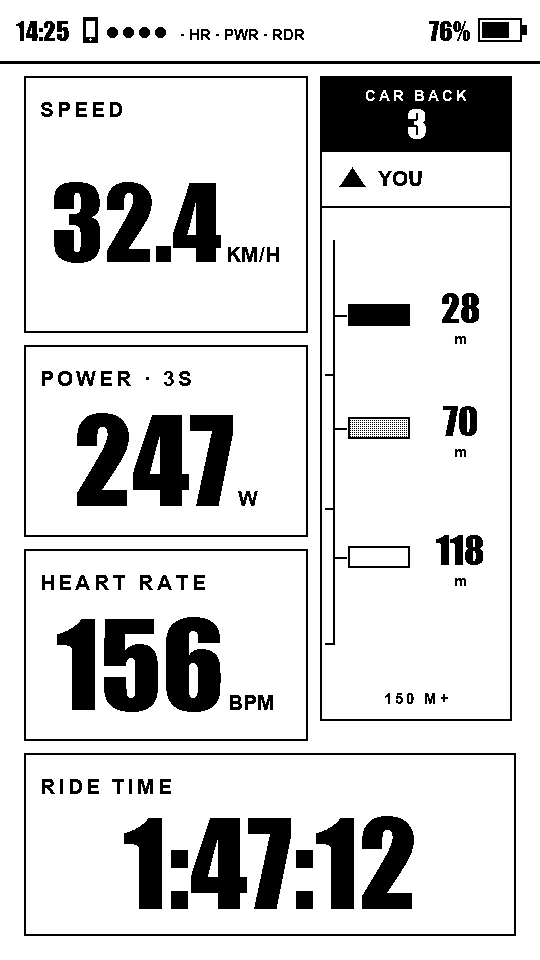
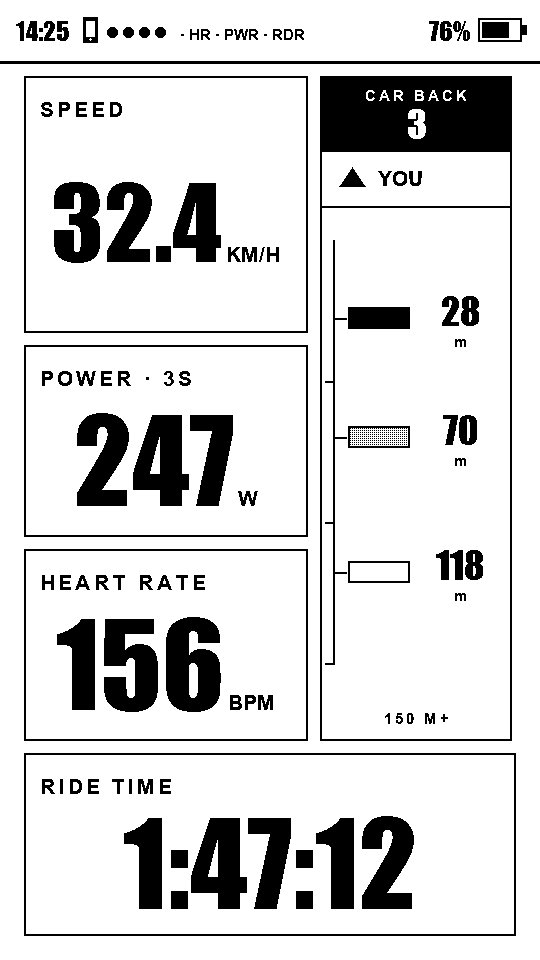
Align configurable radar tiles with dashboard grid rows

diff --git a/companion-ios/Sources/DashboardEditorView.swift b/companion-ios/Sources/DashboardEditorView.swift
@@ -381,7 +381,7 @@ private struct DashItemRow: View {
         }
         .padding(.vertical, 4)
         if item.isVertical {
-            Text("Tile height").font(.footnote).foregroundStyle(Palette.muted)
+            Text("Tile height · fills whole grid rows").font(.footnote).foregroundStyle(Palette.muted)
             Picker("Tile height", selection: $item.heightPercent) {
                 Text("Half").tag(50)
                 Text("Three-quarter").tag(75)
@@ -559,13 +559,19 @@ struct DashPreview: View {
         let total = max(weights.reduce(0, +), 1)
         let gutters = CGFloat(rows.count - 1) * gutter
         let availH = (panelH - statusH - margin) - gutters
-        let railH = CGFloat(860 * (layout.verticalItem?.heightPercent ?? 100) / 100)
+        var gridY = statusH + margin - step
+        let rowHeights = rows.indices.map { r in
+            let height = r == rows.count - 1 ? panelH - margin - gridY
+                : (availH * CGFloat(weights[r]) / CGFloat(total)).rounded(.down)
+            gridY += height + gutter
+            return Int(height)
+        }
+        let railH = CGFloat(layout.verticalHeight(rowHeights: rowHeights, gutter: Int(gutter)))
 
         var out: [Placed] = []
         var y = statusH + margin - step
         for (r, row) in rows.enumerated() {
-            let rowH = r == rows.count - 1 ? panelH - margin - y
-                                           : (availH * CGFloat(weights[r]) / CGFloat(total)).rounded(.down)
+            let rowH = CGFloat(rowHeights[r])
             let mainW = layout.verticalItem != nil && y < 76 + railH + gutter ? 284 : contentW
             let halfW = ((mainW - gutter) / 2).rounded(.down)
             for (c, item) in row.enumerated() {

diff --git a/tools/radar_test/layout_test.swift b/tools/radar_test/layout_test.swift
@@ -29,6 +29,20 @@ import Foundation
         precondition(DashLayout(text: "radar medium vertical height=12").verticalItem?.heightPercent == 100)
         let normalized = DashLayout(text: "speed small height=50\nhr medium vertical height=75\npower medium vertical height=50")
         precondition(normalized.items.map(\.heightPercent) == [100, 75, 100])
+        let half = DashLayout(text: "radar medium vertical height=50")
+        let threeQuarter = DashLayout(text: "radar medium vertical height=75")
+        let full = DashLayout(text: "radar medium vertical")
+        let grid = [257, 192, 192, 183]
+        let navGrid = [214, 161, 161, 150]
+        precondition(half.verticalHeight(rowHeights: grid, gutter: 12) == 461)
+        precondition(threeQuarter.verticalHeight(rowHeights: grid, gutter: 12) == 665)
+        precondition(full.verticalHeight(rowHeights: grid, gutter: 12) == 860)
+        precondition(half.verticalHeight(rowHeights: navGrid, gutter: 12) == 387)
+        precondition(threeQuarter.verticalHeight(rowHeights: navGrid, gutter: 12) == 560)
+        precondition(full.verticalHeight(rowHeights: navGrid, gutter: 12) == 722)
+        precondition(half.verticalHeight(rowHeights: [424, 424], gutter: 12) == 424)
+        precondition(half.verticalHeight(rowHeights: [860], gutter: 12) == 860)
+        precondition(half.verticalHeight(rowHeights: [], gutter: 12) == 0)
         print("Swift radar layout tests passed")
     }
 }

diff --git a/companion-android/app/src/test/java/com/raemond/opentrailpaper/RadarLayoutTest.kt b/companion-android/app/src/test/java/com/raemond/opentrailpaper/RadarLayoutTest.kt
@@ -5,6 +5,23 @@ import org.junit.Assert.*
 import org.junit.Test
 
 class RadarLayoutTest {
+    @Test fun `vertical tiles fill whole weighted rows including navigation and gutter boundaries`() {
+        val half = DashLayout.parse("radar medium vertical height=50")
+        val threeQuarter = DashLayout.parse("radar medium vertical height=75")
+        val full = DashLayout.parse("radar medium vertical")
+        val grid = listOf(257, 192, 192, 183)
+        val navGrid = listOf(214, 161, 161, 150)
+        assertEquals(461, half.verticalHeight(grid, 12))
+        assertEquals(665, threeQuarter.verticalHeight(grid, 12))
+        assertEquals(860, full.verticalHeight(grid, 12))
+        assertEquals(387, half.verticalHeight(navGrid, 12))
+        assertEquals(560, threeQuarter.verticalHeight(navGrid, 12))
+        assertEquals(722, full.verticalHeight(navGrid, 12))
+        assertEquals(424, half.verticalHeight(listOf(424, 424), 12))
+        assertEquals(860, half.verticalHeight(listOf(860), 12))
+        assertEquals(0, half.verticalHeight(emptyList(), 12))
+    }
+
     @Test fun `tile heights survive sync and legacy layouts remain full height`() {
         for (height in listOf(50, 75, 100)) {
             val text = "speed large\nradar medium half vertical height=$height\n"

diff --git a/companion-android/app/src/main/java/com/raemond/opentrailpaper/ui/DashPreview.kt b/companion-android/app/src/main/java/com/raemond/opentrailpaper/ui/DashPreview.kt
@@ -311,16 +311,19 @@ private fun place(layout: DashLayout): List<Placed> {
     val total = maxOf(weights.sum(), 1)
     val gutters = (rows.size - 1) * GUTTER
     val availH = (PANEL_H - STATUS_H - MARGIN) - gutters
-    val railH = (860 * (layout.verticalItem?.heightPercent ?: 100) / 100).toFloat()
+    var gridY = STATUS_H + MARGIN - STEP
+    val rowHeights = rows.indices.map { r ->
+        val height = if (r == rows.lastIndex) PANEL_H - MARGIN - gridY
+                     else (availH * weights[r] / total).toInt().toFloat()
+        gridY += height + GUTTER
+        height.toInt()
+    }
+    val railH = layout.verticalHeight(rowHeights, GUTTER.toInt()).toFloat()
 
     val out = ArrayList<Placed>()
     var y = STATUS_H + MARGIN - STEP
     for ((r, row) in rows.withIndex()) {
-        val rowH = if (r == rows.size - 1) {
-            PANEL_H - MARGIN - y
-        } else {
-            (availH * weights[r] / total).toInt().toFloat()
-        }
+        val rowH = rowHeights[r].toFloat()
         val mainW = if (layout.verticalItem != null && y < 76 + railH + GUTTER) 284f else CONTENT_W
         val halfW = ((mainW - GUTTER) / 2).toInt().toFloat()
         for ((c, item) in row.withIndex()) {

diff --git a/companion-ios/Sources/DashLayout.swift b/companion-ios/Sources/DashLayout.swift
@@ -155,6 +155,22 @@ struct DashLayout: Equatable {
     }
     var verticalItem: DashItem? { normalizedItems.first { $0.vertical } }
 
+    /// Match the device: fill every grid row touched by the requested height.
+    func verticalHeight(rowHeights: [Int], gutter: Int) -> Int {
+        guard !rowHeights.isEmpty else { return 0 }
+        let total = rowHeights.reduce(0, +) + (rowHeights.count - 1) * gutter
+        let percent = verticalItem?.heightPercent ?? 100
+        if percent >= 100 { return total }
+        let wanted = total * percent / 100
+        var bottom = 0
+        for (index, height) in rowHeights.enumerated() {
+            bottom += height
+            if bottom + gutter >= wanted || index == rowHeights.count - 1 { return bottom }
+            bottom += gutter
+        }
+        return total
+    }
+
     /// The device's built-in default, for the "reset" action.
     static var deviceDefault: DashLayout {
         DashLayout(items: [

diff --git a/companion-android/app/src/main/java/com/raemond/opentrailpaper/data/DashLayout.kt b/companion-android/app/src/main/java/com/raemond/opentrailpaper/data/DashLayout.kt
@@ -100,6 +100,22 @@ data class DashLayout(val items: List<DashItem>) {
         }
     val verticalItem: DashItem? get() = normalizedItems.firstOrNull { it.vertical }
 
+    /** Match the device: fill every grid row touched by the requested height. */
+    fun verticalHeight(rowHeights: List<Int>, gutter: Int): Int {
+        if (rowHeights.isEmpty()) return 0
+        val total = rowHeights.sum() + (rowHeights.size - 1) * gutter
+        val percent = verticalItem?.heightPercent ?: 100
+        if (percent >= 100) return total
+        val wanted = total * percent / 100
+        var bottom = 0
+        for ((index, height) in rowHeights.withIndex()) {
+            bottom += height
+            if (bottom + gutter >= wanted || index == rowHeights.lastIndex) return bottom
+            bottom += gutter
+        }
+        return total
+    }
+
 
     /**
      * Serialize back to the config file's text, byte-compatible with

diff --git a/companion-android/app/src/main/java/com/raemond/opentrailpaper/ui/DashboardEditorSheet.kt b/companion-android/app/src/main/java/com/raemond/opentrailpaper/ui/DashboardEditorSheet.kt
@@ -740,7 +740,7 @@ private fun DashItemRow(
             SmallChip("Half", item.half) { onChange(item.copy(half = !item.half)) }
         }
         if (item.isVertical) {
-            Text("Tile height", style = TypeScale.body)
+            Text("Tile height · fills whole grid rows", style = TypeScale.body)
             Row(horizontalArrangement = Arrangement.spacedBy(6.dp)) {
                 listOf(50 to "Half", 75 to "Three-quarter", 100 to "Full").forEach { (height, label) ->
                     SmallChip(label, item.heightPercent == height) { onChange(item.copy(heightPercent = height)) }

diff --git a/src/ui_render.cpp b/src/ui_render.cpp
@@ -916,14 +916,6 @@ void ui_render_dashboard(const RideState& s, bool navActive,
         if (s.showOffline || dashFieldAvailable(src.items[i].field, s))
             L.items[L.count++] = src.items[i];
     }
-    const int railHeight = (H - top - 2 * ui::MARGIN + ui::STEP) *
-                           (vertical >= 0 ? src.items[vertical].heightPercent : 100) / 100;
-    const EpdRect rail = {DASH_VERTICAL_X, top + ui::MARGIN - ui::STEP,
-                          DASH_VERTICAL_W, railHeight};
-    if (vertical >= 0) {
-        const DashItem& item = src.items[vertical];
-        if (item.field == DF_RADAR) ui_render_radar(s, rail, fb);
-    }
 
     // Everything configured is unavailable — a fresh device with a power-only
     // layout and no sensors yet. Speed always has a source, so the panel shows
@@ -980,10 +972,24 @@ void ui_render_dashboard(const RideState& s, bool navActive,
 
     const int gutters = (rowCount - 1) * ui::GUTTER;
     const int availH = (H - top - ui::MARGIN) - gutters;
-    int y = top + ui::MARGIN - ui::STEP;
+    const int gridTop = top + ui::MARGIN - ui::STEP;
+    int rowHeights[DASH_MAX_ITEMS];
+    int gridY = gridTop;
     for (int r = 0; r < rowCount; ++r) {
-        int rowH = (r == rowCount - 1) ? (H - ui::MARGIN - y)
-                                       : availH * rows[r].weight / totalWeight;
+        rowHeights[r] = r == rowCount - 1 ? H - ui::MARGIN - gridY
+                                          : availH * rows[r].weight / totalWeight;
+        gridY += rowHeights[r] + ui::GUTTER;
+    }
+    // The rail spans whole rows, including their gutters. Its lower border is
+    // the same border as the last adjacent numeric row, even with navigation.
+    const EpdRect rail = {DASH_VERTICAL_X, gridTop, DASH_VERTICAL_W,
+        dashVerticalHeight(rowHeights, rowCount, ui::GUTTER,
+                           vertical >= 0 ? src.items[vertical].heightPercent : 100)};
+    if (vertical >= 0 && src.items[vertical].field == DF_RADAR)
+        ui_render_radar(s, rail, fb);
+    int y = gridTop;
+    for (int r = 0; r < rowCount; ++r) {
+        const int rowH = rowHeights[r];
         const DashRow& row = rows[r];
         const int contentW = vertical >= 0 && y < rail.y + rail.height + ui::GUTTER
                              ? DASH_VERTICAL_X - ui::GUTTER - ui::CONTENT_X : ui::CONTENT_W;

diff --git a/tools/radar_test/main.cpp b/tools/radar_test/main.cpp
@@ -81,5 +81,20 @@ int main() {
     assert(dashParse("radar medium\n", bad) && bad.items[0].heightPercent == 100);
     assert(dashParse("speed small height=50\nhr medium vertical height=75\npower medium vertical height=50\n", bad));
     assert(bad.items[0].heightPercent == 100 && bad.items[1].heightPercent == 75 && bad.items[2].heightPercent == 100);
+    // Actual weighted grid used by the preview; include navigation and a
+    // requested edge in the gutter between two equal rows.
+    const int grid[] = {257, 192, 192, 183};
+    const int navGrid[] = {214, 161, 161, 150};
+    const int equalGrid[] = {424, 424};
+    const int single[] = {860};
+    assert(dashVerticalHeight(grid, 4, 12, 50) == 461);
+    assert(dashVerticalHeight(grid, 4, 12, 75) == 665);
+    assert(dashVerticalHeight(grid, 4, 12, 100) == 860);
+    assert(dashVerticalHeight(navGrid, 4, 12, 50) == 387);
+    assert(dashVerticalHeight(navGrid, 4, 12, 75) == 560);
+    assert(dashVerticalHeight(navGrid, 4, 12, 100) == 722);
+    assert(dashVerticalHeight(equalGrid, 2, 12, 50) == 424);
+    assert(dashVerticalHeight(single, 1, 12, 50) == 860);
+    assert(dashVerticalHeight(nullptr, 0, 12, 50) == 0);
     puts("Radar protocol and layout tests passed");
 }

diff --git a/src/dash_layout.cpp b/src/dash_layout.cpp
@@ -88,6 +88,21 @@ const DashPages& dashDefaultPages() {
     return d;
 }
 
+int dashVerticalHeight(const int* rowHeights, int rowCount, int gutter, uint8_t heightPercent) {
+    if (rowCount <= 0) return 0;
+    int total = (rowCount - 1) * gutter;
+    for (int i = 0; i < rowCount; ++i) total += rowHeights[i];
+    if (heightPercent >= 100) return total;
+    const int wanted = total * heightPercent / 100;
+    int bottom = 0;
+    for (int i = 0; i < rowCount; ++i) {
+        bottom += rowHeights[i];
+        if (bottom + gutter >= wanted || i == rowCount - 1) return bottom;
+        bottom += gutter;
+    }
+    return total;
+}
+
 void dashNormalizeLayout(DashLayout& layout) {
     bool hasVertical = false;
     int n = 0;

diff --git a/src/dash_layout.h b/src/dash_layout.h
@@ -75,6 +75,8 @@ struct DashLayout {
 // from the numeric cells in the display driver's dirty regions.
 constexpr int DASH_VERTICAL_X = 320;
 constexpr int DASH_VERTICAL_W = 192;
+// Round a requested vertical height up to the bottom of a complete grid row.
+int dashVerticalHeight(const int* rowHeights, int rowCount, int gutter, uint8_t heightPercent);
 // Radar is always vertical. First vertical wins; extra numeric vertical items
 // become full-width rows, and duplicate radar tiles are discarded.
 void dashNormalizeLayout(DashLayout& layout);

diff --git a/docs/varia-radar.md b/docs/varia-radar.md
@@ -8,8 +8,10 @@ pairing. The phone is not needed after pairing.
 
 In the phone's dashboard editor, add **Radar** to a data page and save it to the
 head unit. Choose **Tile height**: **Half**, **Three-quarter**, or **Full** (the default).
-The radar sits at the top right and uses that fraction of the available dashboard
-height, including when navigation reduces the available area. Fields beside it
+The radar sits at the top right and rounds the requested fraction up to a whole
+number of grid rows. Its bottom border aligns with the last adjacent tile, with
+only the normal gutter before the next row. This also applies during navigation;
+with just one numeric row, all height choices fill that row. Fields beside it
 pack on the left; rows starting below the tile expand across the page. A numeric
 field can also be given **Vertical tile** placement.
 Only one vertical tile is allowed per page. Remove it or turn off its vertical
